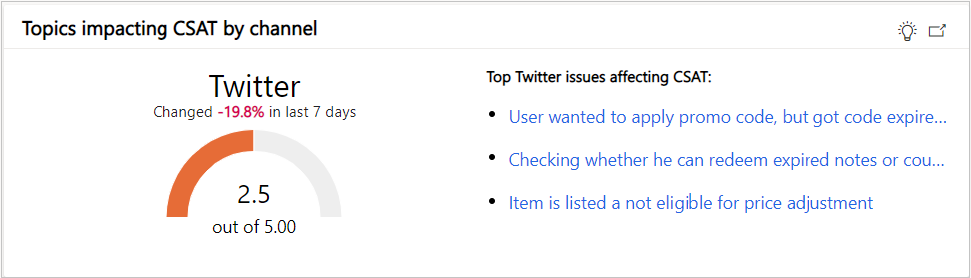
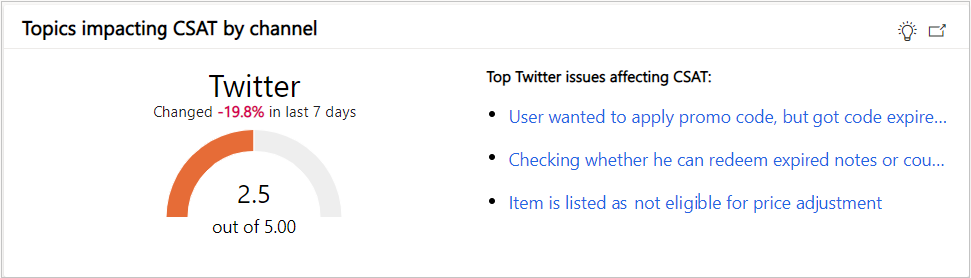
Corrected a typo in screenshot

Changed region(s): [[0.6179, 0.6906, 0.9269, 0.777]]

diff --git a/ai-docs/customer-service-insights/keyinsights.md b/ai-docs/customer-service-insights/keyinsights.md
@@ -62,7 +62,7 @@ When you select the light bulb ![Light bulb](media/light-bulb.png "Light bulb"),
 
 ![Topics that are automation candidates for chatbots](media/home_automationcandidates.png "Topics that are automation candidates for chatbots")
 
-A chatbot solution is a great way to automate incoming cases that are high in volume and easy to resolve. The topics are suggested based on these factors. When your organization uses Power Virtual Agents, the topic automation process is an easy integration with Dynamics 365 Customer Service Insights. More information: [Automate topics for a Power Virtual Agents bot](automate-topics.md).
+A chatbot solution is a great way to automate incoming cases that are high in volume and easy to resolve. The topics are suggested based on these factors. When your organization uses Power Virtual Agents, the topic automation process is an easy integration with Dynamics 365 Customer Service Insights. More information: [Automate topics for a Power Virtual Agents bot](automate-topics.md)
 
 ### Topics impacting CSAT by channel
 
